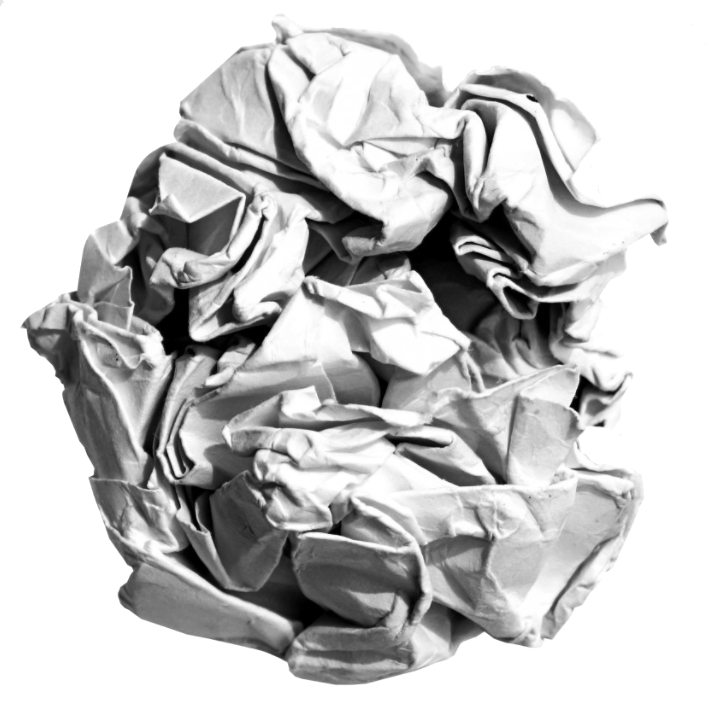
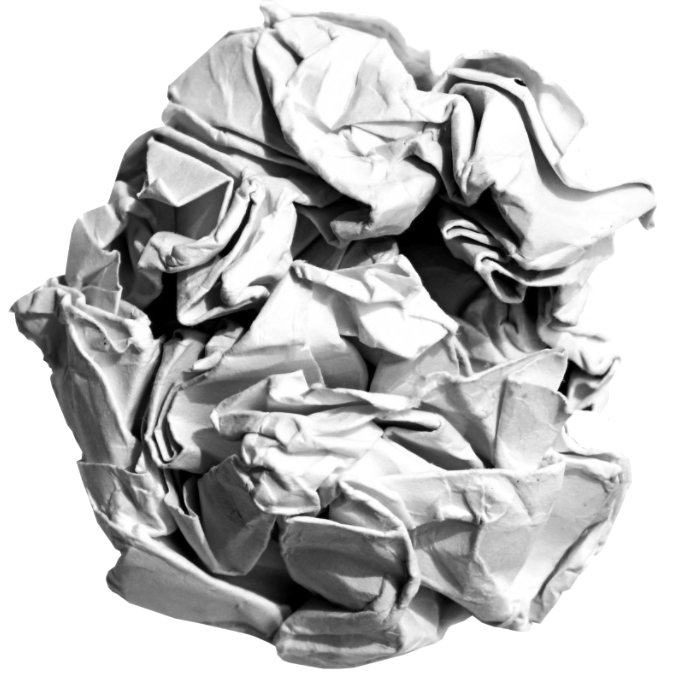
Add rotation to items, refine boundaries

diff --git a/src/game/trash-item.js b/src/game/trash-item.js
@@ -5,6 +5,13 @@ import Matter from 'matter-js';
 
 import { Body, Sprite } from 'react-game-kit';
 
+const asset = {
+  shape: 'circle',
+  radius: 50,
+  imageRadius: 673,
+  url: "assets/trash-piece.png",
+}
+
 @observer
 export default class TrashItem extends Component {
   static propTypes = {
@@ -21,10 +28,11 @@ export default class TrashItem extends Component {
     const { cursorPosition } = store;
     const { body } = this.body;
     store.setItemPosition(body.position);
+    store.setItemAngle(body.angle);
     if (store.userCarriesItem) {
       const speedVector = {
-        x: (cursorPosition.x - body.position.x - 35) / 10,
-        y: (cursorPosition.y - body.position.y - 35) / 10,
+        x: (cursorPosition.x - body.position.x) / 10,
+        y: (cursorPosition.y - body.position.y) / 10,
       };
       this.move(body, speedVector);
     }
@@ -36,12 +44,12 @@ export default class TrashItem extends Component {
 
   handleMouseDown = (e) => {
     const { store } = this.props;
-    store.toggleUserCarriesItem();
+    store.setUserCarriesItemTrue();
   }
 
   handleMouseUp = (e) => {
     const { store } = this.props;
-    store.toggleUserCarriesItem();
+    store.setUserCarriesItemFalse();
   }
 
   move = (body, speedVector) => {
@@ -50,6 +58,8 @@ export default class TrashItem extends Component {
 
   componentDidMount() {
     Matter.Events.on(this.context.engine, 'afterUpdate', this.update);
+    const { body } = this.body;
+    Matter.Body.setAngularVelocity(body, 0.05);
   }
 
   componentWillUnmount() {
@@ -58,12 +68,20 @@ export default class TrashItem extends Component {
 
   getWrapperStyles() {
     const { x, y } = this.props.store.itemPosition;
+    const angle = this.props.store.itemAngle;
     const { scale } = this.context;
+
+    const t_x = x - asset.radius;
+    const t_y = y - asset.radius;
 
     return {
       position: 'absolute',
-      transform: `translate(${x * scale}px, ${y * scale}px)`,
-      transformOrigin: 'left top',
+      width: `${asset.radius * 2 * scale}px`,
+      height: `${asset.radius * 2 * scale}px`,
+      transform: (`translate(${t_x * scale}px, ` +
+                  `${t_y * scale}px) ` +
+                  `rotate(${angle}rad)`),
+      transformOrigin: 'center',
     };
   }
 
@@ -77,19 +95,23 @@ export default class TrashItem extends Component {
         onMouseUp={this.handleMouseUp}
       >
         <Body
-          args={[x, y, 71, 71]}
-          inertia={Infinity}
+          args={[x, y, asset.radius]}
+          shape={asset.shape}
+          frictionAir={0.001}
+          friction={0.2}
           ref={b => {
               this.body = b;
           }}>
           <Sprite
             repeat={false}
-            src="assets/trash-piece.png"
-            scale={this.context.scale * 0.1}
+            src={asset.url}
+            scale={(this.context.scale *
+                2 * asset.radius) / asset.imageRadius}
             state={0}
             steps={[0]}
-            tileHeight={708}
-            tileWidth={708}>
+            tileHeight={asset.imageRadius}
+            tileWidth={asset.imageRadius}
+          >
           </Sprite>
         </Body>
       </div>

diff --git a/src/game/red-box.js b/src/game/red-box.js
@@ -1,0 +1,83 @@
+import React, { Component } from 'react';
+import PropTypes from 'prop-types';
+import { observer } from 'mobx-react';
+import Matter from 'matter-js';
+
+import { Body, Sprite } from 'react-game-kit';
+
+@observer
+export default class RedBox extends Component {
+  static propTypes = {
+    store: PropTypes.object,
+  };
+
+  static contextTypes = {
+    engine: PropTypes.object,
+    scale: PropTypes.number,
+  };
+
+  update = () => {
+    const { body } = this.body;
+    const { store } = this.props;
+    store.setRedBoxPosition(body.position);
+    store.setRedBoxAngle(body.angle);
+  };
+
+  handleDragStart = (e) => {
+    e.preventDefault();
+  }
+
+  componentDidMount() {
+    Matter.Events.on(this.context.engine, 'afterUpdate', this.update);
+  }
+
+  componentWillUnmount() {
+    Matter.Events.off(this.context.engine, 'afterUpdate', this.update);
+  }
+
+  getWrapperStyles() {
+    const { x, y } = this.props.store.redBoxPosition;
+    const angle = this.props.store.redBoxAngle;
+    const { scale } = this.context;
+
+    const t_x = x - 50;
+    const t_y = y - 50;
+
+    return {
+      position: 'absolute',
+      transform: (`translate(${t_x * scale}px, ` +
+                  `${t_y * scale}px) ` +
+                  `rotate(${angle}rad)`),
+      transformOrigin: 'center',
+    };
+  }
+
+  render() {
+    const { x, y } = this.props.store.redBoxPosition;
+    return (
+      <div
+        style={this.getWrapperStyles()}
+        onDragStart={this.handleDragStart}
+      >
+        <Body
+          args={[x, y, 100, 100]}
+          frictionAir={0.001}
+          friction={0.3}
+          ref={b => {
+              this.body = b;
+          }}
+        >
+          <Sprite
+            repeat={false}
+            src="assets/red-box.jpg"
+            scale={this.context.scale}
+            state={0}
+            steps={[0]}
+            tileHeight={100}
+            tileWidth={100}>
+          </Sprite>
+        </Body>
+      </div>
+    );
+  }
+}

diff --git a/src/game/index.js b/src/game/index.js
@@ -6,6 +6,7 @@ import { Loop, Stage, World } from 'react-game-kit';
 
 import config from '../config';
 
+import RedBox from './red-box';
 import TrashItem from './trash-item';
 import DebugCursor from './debug-cursor';
 import GameStore from './stores/game-store';
@@ -15,28 +16,33 @@ export default class Game extends Component {
 
   physicsInit = engine => {
     const ground = Matter.Bodies.rectangle(
-      512, 448, 1024, 64, {
+      512, 576, 1024, 20, {
+        isStatic: true,
+      });
+    const roof = Matter.Bodies.rectangle(
+      512, -10, 1024, 20, {
         isStatic: true,
       });
     const leftWall = Matter.Bodies.rectangle(
-      -64, 288, 64, 576, {
+      0, 288, 20, 576, {
         isStatic: true,
       });
     const rightWall = Matter.Bodies.rectangle(
-      960, 288, 64, 576, {
+      1024, 288, 20, 576, {
         isStatic: true,
       });
 
     Matter.World.addBody(engine.world, ground);
+    Matter.World.addBody(engine.world, roof);
     Matter.World.addBody(engine.world, leftWall);
     Matter.World.addBody(engine.world, rightWall);
   }
 
   handleMouseMove = (e) => {
     const {
-      top, width, height
+      left, top, width, height
     } = e.currentTarget.getBoundingClientRect();
-    const normalizedX = (e.clientX) / width * config.stageWidth;
+    const normalizedX = (e.clientX - left) / width * config.stageWidth;
     const normalizedY = ((e.clientY - top) /
       height * config.stageHeight);
     GameStore.setCursorPosition({ x: normalizedX, y: normalizedY });
@@ -69,6 +75,7 @@ export default class Game extends Component {
               onMouseUp={this.handleMouseUp}
             >
               {debug && <DebugCursor store={GameStore} />}
+              {debug && <RedBox store={GameStore} />}
               <TrashItem store={GameStore} />
             </div>
           </World>

diff --git a/src/game/stores/game-store.js b/src/game/stores/game-store.js
@@ -1,7 +1,10 @@
 import { observable } from 'mobx';
 
 class GameStore {
-  @observable itemPosition = { x: 0, y: 0 };
+  @observable itemPosition = { x: 90, y: 40 };
+  @observable itemAngle = 0;
+  @observable redBoxPosition = { x: 250, y: 40 };
+  @observable redBoxAngle = 0;
   @observable cursorPosition = { x: 0, y: 0 };
   @observable userCarriesItem = false;
 
@@ -13,8 +16,20 @@ class GameStore {
     this.itemPosition = position;
   }
 
-  toggleUserCarriesItem() {
-    this.userCarriesItem = !this.userCarriesItem;
+  setItemAngle(angle) {
+    this.itemAngle = angle;
+  }
+
+  setRedBoxPosition(position) {
+    this.redBoxPosition = position;
+  }
+
+  setRedBoxAngle(angle) {
+    this.redBoxAngle = angle;
+  }
+
+  setUserCarriesItemTrue() {
+    this.userCarriesItem = true;
   }
 
   setUserCarriesItemFalse() {

diff --git a/src/intro.js b/src/intro.js
@@ -24,10 +24,10 @@ export default class Intro extends Component {
     return (
       <div>
         <p className="start">
-          React Game Kit works
+          Thrash is not thrash!
         </p>
         <p className="description">
-          Press enter to continue
+          Learn how to make most of it.
         </p>
       </div>
     )
